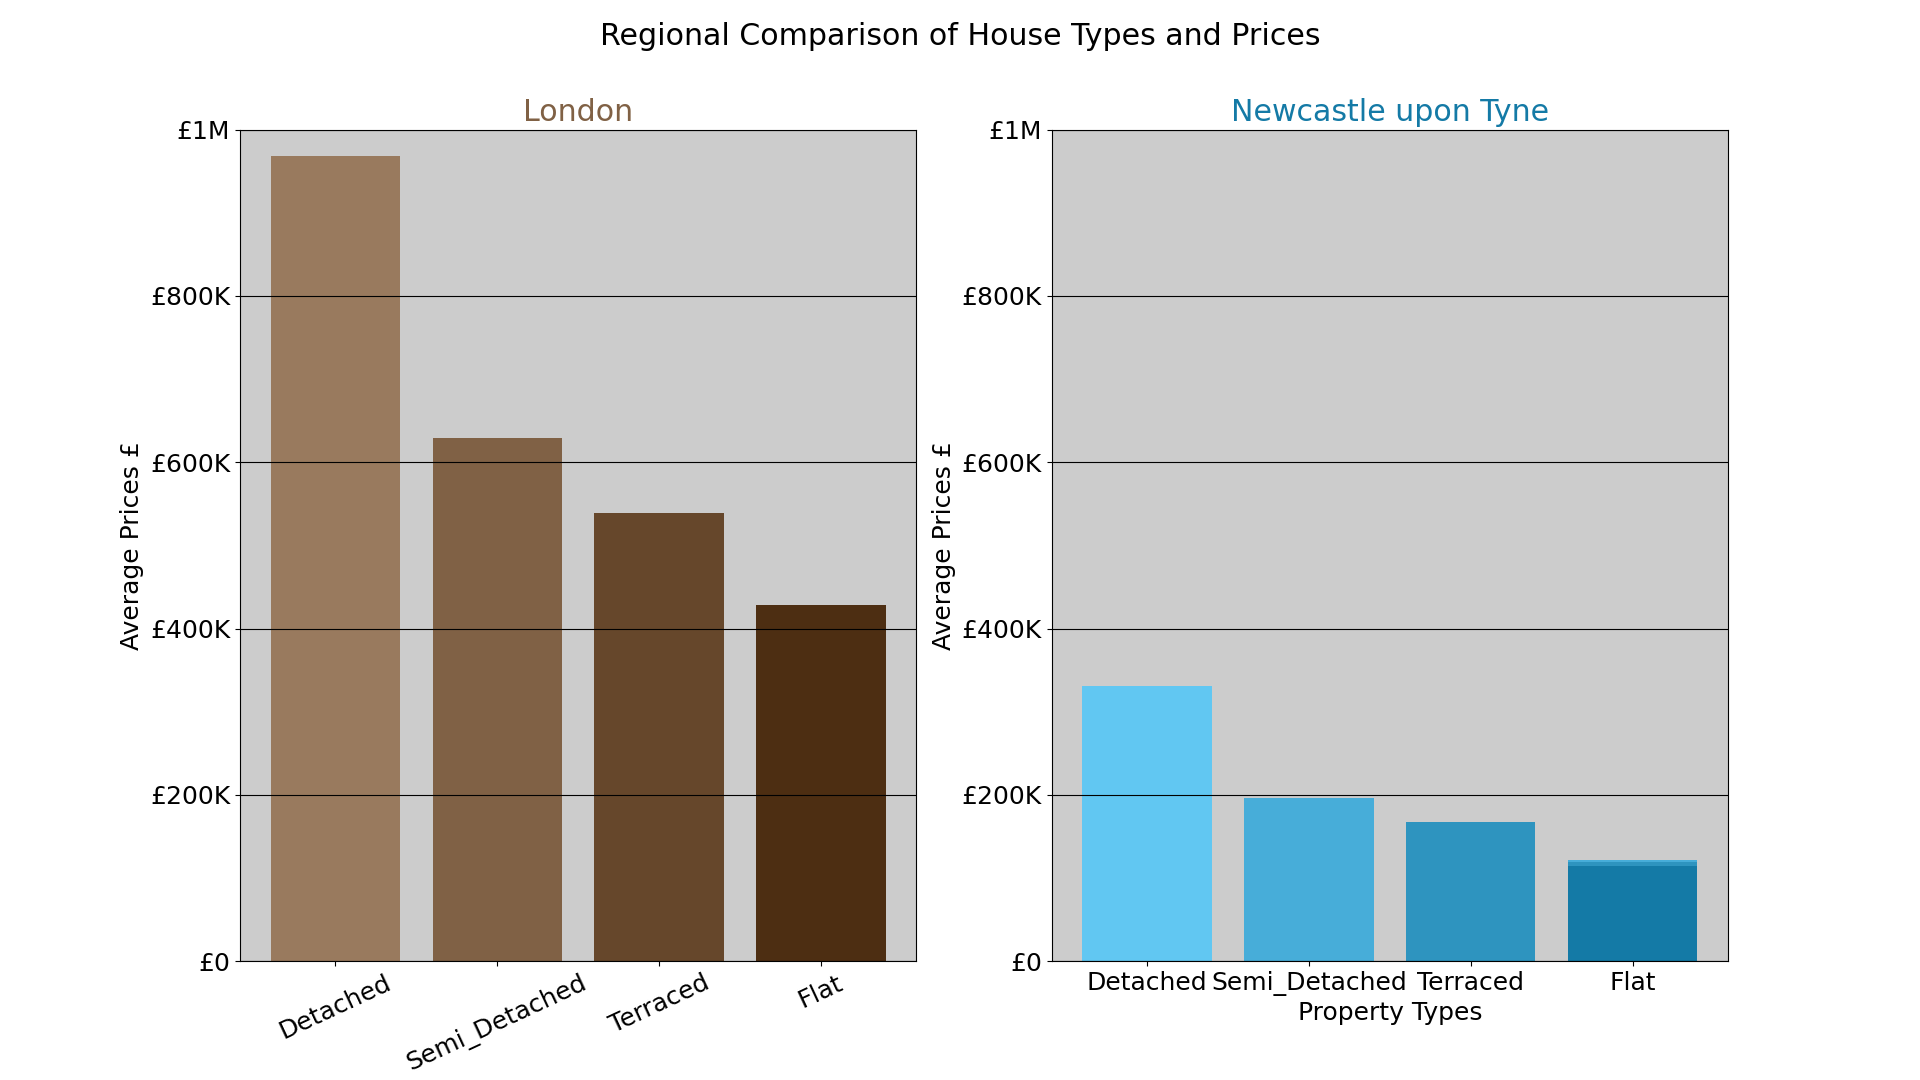
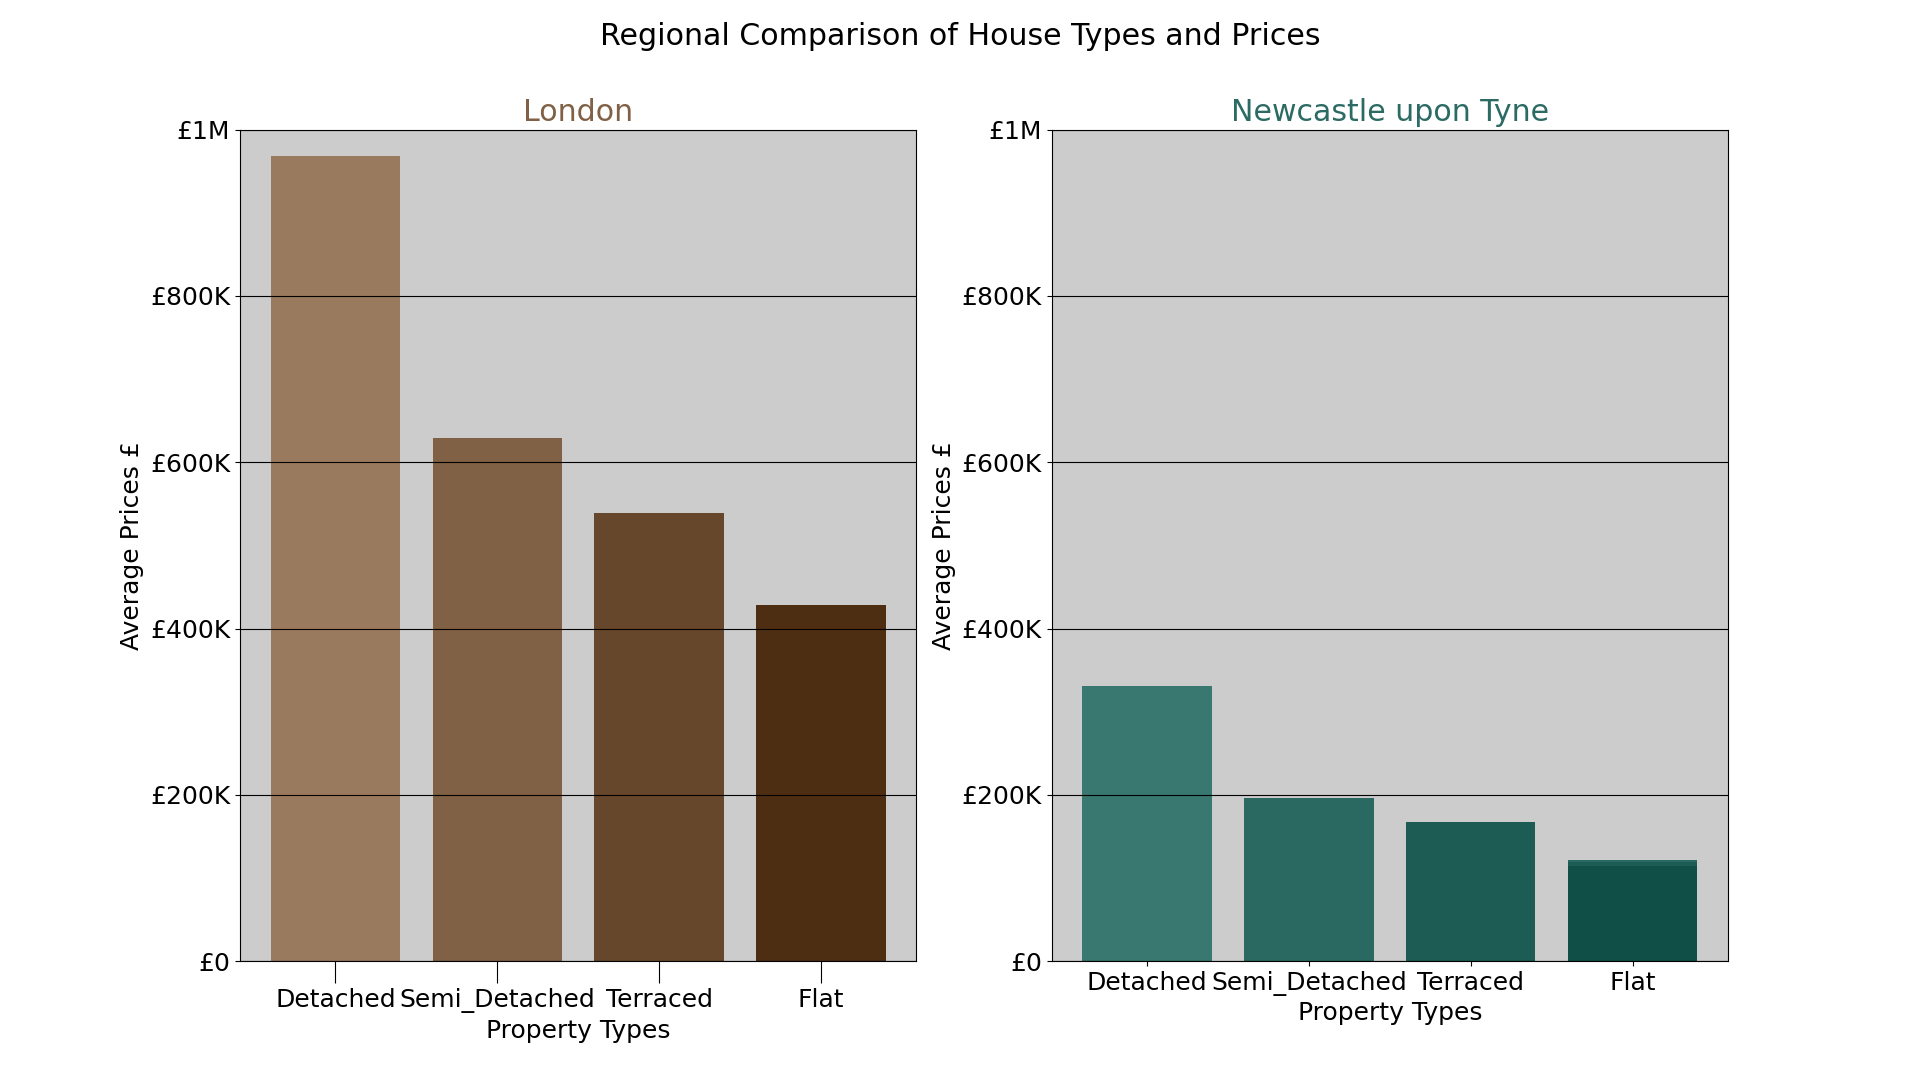
Coloring part_b, part_a

diff --git a/part_a.py b/part_a.py
@@ -55,7 +55,7 @@ def part_a(fig, ax1, ax2, show=True, save=False):
             [(0.6, 0.48, 0.37, 1.0), (0.5, 0.38, 0.27, 1.0),
              (0.4, 0.28, 0.17, 1.0), (0.3, 0.18, 0.07, 1.0)])
     ax1.set_title("London", color=(0.5, 0.38, 0.27, 1.0))
-    ax1.tick_params('x', labelrotation=25)
+    ax1.tick_params('x', labelrotation=0, size=16)
     ax1.set_yticks(ticks=[x*200_000 for x in range(6)])
     ax1.set_yticklabels(labels=["£0", "£200K", "£400K",  "£600K", "£800K", "£1M"])
     ax1.set_xlabel("Property Types")
@@ -65,9 +65,9 @@ def part_a(fig, ax1, ax2, show=True, save=False):
     ax2.set_facecolor((0.8, 0.8, 0.8, 1.0))
     ax2.grid(axis='y', color='black')
     ax2.bar(nd['Property_Type'], nd['Avg_Price'], color=[
-        (0.38, 0.78, 0.95, 1), (0.28, 0.68, 0.85, 1),
-        (0.18, 0.58, 0.75, 1), (0.08, 0.48, 0.65, 1)])
-    ax2.set_title("Newcastle upon Tyne", color=(0.08, 0.48, 0.65, 1))
+        (0.22, 0.47, 0.44, 1), (0.16, 0.41, 0.38, 1),
+        (0.11, 0.36, 0.33, 1), (0.06, 0.31, 0.28, 1)])
+    ax2.set_title("Newcastle upon Tyne", color=(0.17, 0.42, 0.39, 1))
     ax2.tick_params('x', labelrotation=0)
     ax2.set_yticks(ticks=[x*200_000 for x in range(6)])
     ax2.set_yticklabels(labels=["£0", "£200K", "£400K",  "£600K", "£800K", "£1M"])

diff --git a/part_b.py b/part_b.py
@@ -39,11 +39,11 @@ def part_b(fig, ax1, ax2, show=True, save=False):
     ## Non clean data
     ax1.grid(color=(0.05, 0.05, 0.05, 1.0))
     ax1.set_facecolor((0.8, 0.8, 0.8, 1.0))
-    ax1.set_title("Dataset with outliers", color=(0.0, 0.5, 0.5, 1.0))
+    ax1.set_title("Dataset with outliers", color=(0.16, 0.30, 0.38, 1.0))
     ax1.set_xlabel("Average Broadband Download Speed")
     ax1.set_ylabel("Average Broadband Upload Speed")
     x, y = bbs['averageDown'], bbs['averageUpload']
-    ax1.scatter(x=x, y=y, color=(0.0, 0.5, 0.5, 1.0),
+    ax1.scatter(x=x, y=y, color=(0.16, 0.30, 0.38, 1.0),
              label='Down to Up Speed')
     ax1.set_yticks(ticks=[x*10 for x in range(11)], rotation=0)
     # Regression line

diff --git a/main.py b/main.py
@@ -15,7 +15,7 @@ def collage(showplt=True, savepltimg=False):
 
     ## Configure main figure and subplots
     fig, (r1, r2) = plt.subplots(2, 2, figsize=(19.2, 10.8),
-                                 facecolor=(0.07, 0.14, 0.2, 1))
+                                 facecolor=(0.09, 0.31, 0.41, 1))
     fig.suptitle("State of the (UK) Nation 2021", size=18, color='white')
     fig.tight_layout(pad=0.4)
     plt.subplots_adjust(wspace=-0.05)
